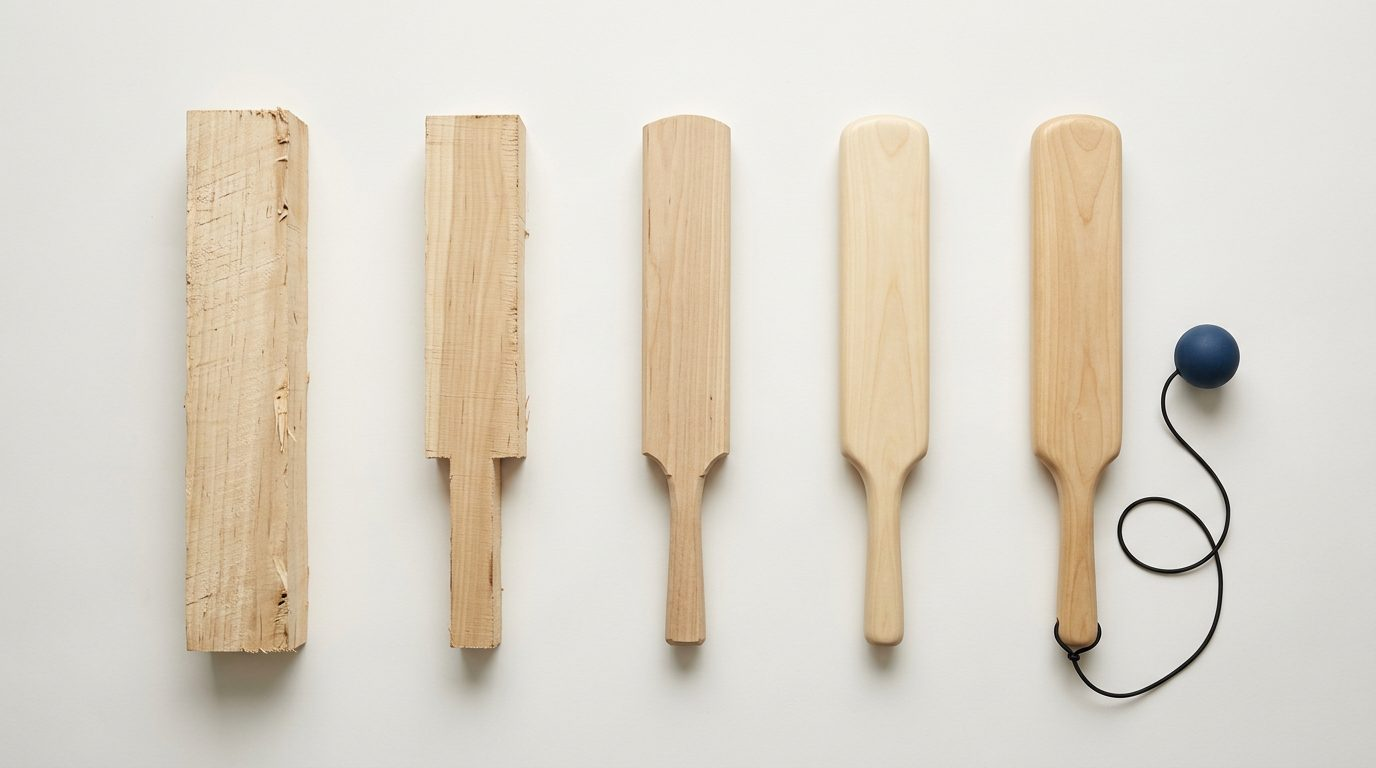
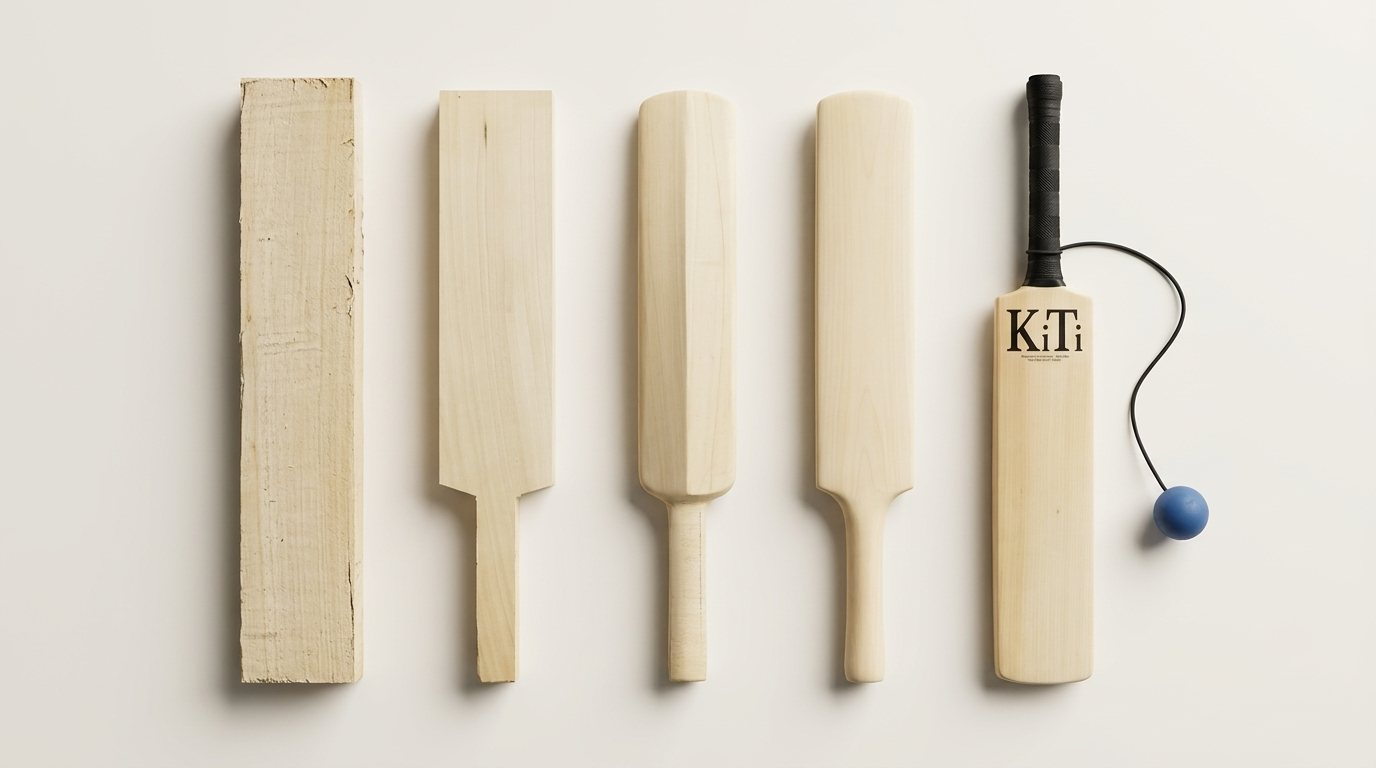
Real finished-product photo, and a making-of built from it
The new photo of the finished 45 cm bat (grip, KiTi mark, ball on elastic)
now leads its product page and both range cards. The making-of strip was
regenerated from that photo plus the blanks shot, so the illustrated stages
match the actual product instead of a generic bat.

diff --git a/site/index.html b/site/index.html
@@ -9,7 +9,7 @@
 <meta property="og:title" content="KiTi-Bat — Train Better. Focus Sharper. Play Stronger.">
 <meta property="og:description" content="Hand-eye coordination trainers for ages 5 to 80 — made by hand in South Africa.">
 <meta property="og:type" content="website">
-<meta property="og:image" content="assets/img/bats-fan.jpg">
+<meta property="og:image" content="assets/img/kitibat-real.jpg">
 <link rel="stylesheet" href="assets/css/style.css">
 </head>
 <body>
@@ -50,7 +50,7 @@
         </div>
       </div>
       <figure class="hero__art">
-        <img src="assets/img/bats-fan.jpg" alt="A fan of freshly shaped KiTi Junior training bats" fetchpriority="high">
+        <img src="assets/img/bats-fan.jpg" alt="A fan of freshly shaped KiTi-Bats" fetchpriority="high">
       </figure>
     </div>
   </section>
@@ -80,7 +80,7 @@
 
         <article class="card">
           <div class="card__media">
-            <img src="assets/img/bats-fan.jpg" alt="A fan of finished KiTi-Bat hand-eye trainers" loading="lazy">
+            <img src="assets/img/kitibat-card.jpg" alt="A finished KiTi-Bat: the KiTi mark on the blade, black rubber grip and the blue ball on its elastic" loading="lazy">
             <span class="card__tag">The original</span>
           </div>
           <div class="card__body">

diff --git a/site/kiti-bat.html b/site/kiti-bat.html
@@ -46,8 +46,8 @@
           <a class="btn btn--ghost" href="#how">How it works</a>
         </div>
       </div>
-      <figure class="hero__art">
-        <img src="assets/img/bats-fan.jpg" alt="A fan of finished KiTi-Bat hand-eye skills trainers" fetchpriority="high">
+      <figure class="hero__art hero__art--tall">
+        <img src="assets/img/kitibat-real.jpg" alt="A finished KiTi-Bat: pale poplar blade with the KiTi mark, black rubber grip and the blue ball on its elastic" fetchpriority="high">
       </figure>
     </div>
   </section>
@@ -157,7 +157,7 @@
       </div>
       <div class="cards">
         <article class="card">
-          <div class="card__media"><img src="assets/img/bats-fan.jpg" alt="KiTi-Bat trainers laid out" loading="lazy"><span class="card__tag">45 cm</span></div>
+          <div class="card__media"><img src="assets/img/kitibat-card.jpg" alt="A finished KiTi-Bat: the KiTi mark on the blade, black rubber grip and the blue ball on its elastic" loading="lazy"><span class="card__tag">45 cm</span></div>
           <div class="card__body">
             <h3 class="h3">KiTi-Bat</h3>
             <p>45 cm long, 7 cm wide, American poplar. The narrow face that makes you watch the ball properly.</p>
